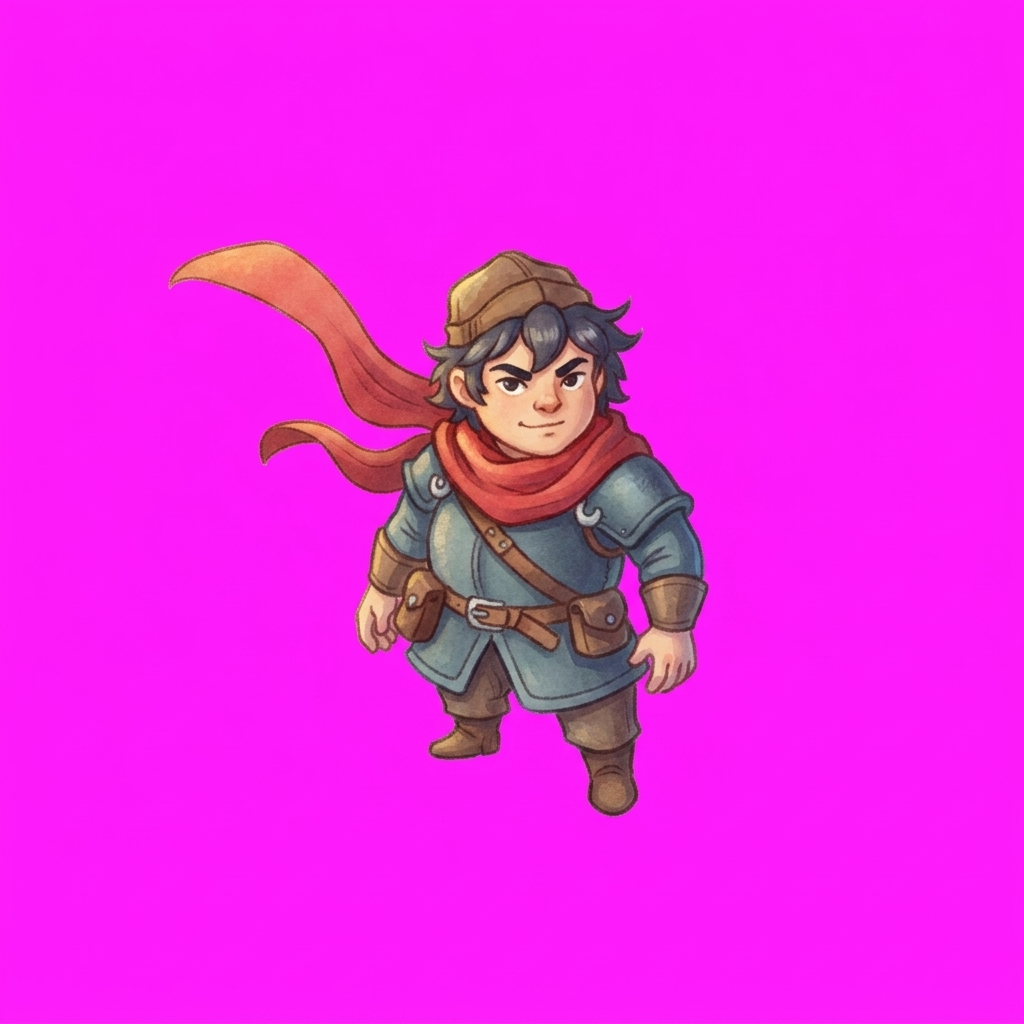
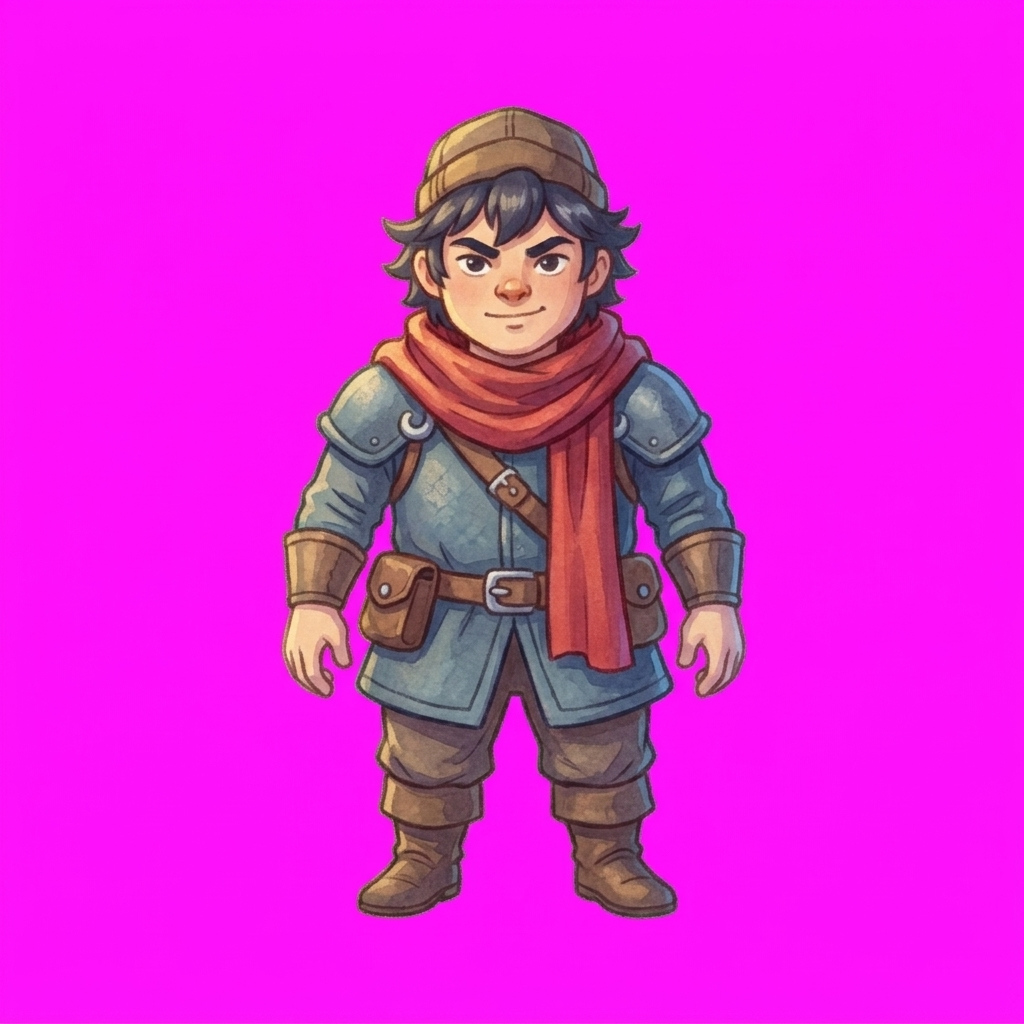
People stand the same height; Mara and Ilya in a neutral front pose
Every person (players, NPCs, wished looks) is scaled to CHARACTER_HEIGHT
(168 px) instead of fitting a fixed width, so a wide hat or scarf widens
the picture rather than shrinking the person. Mara and Ilya are repainted
standing straight, facing the viewer with arms relaxed, as the base of
their walks.

Claude-Session: https://claude.ai/code/session_01R4ALLanxqUEA9N9eW9ppqX

Changed region(s): [[0.1562, 0.0938, 0.75, 0.9062]]

diff --git a/packages/server/src/assets/wish-art.ts b/packages/server/src/assets/wish-art.ts
@@ -1,7 +1,7 @@
 import { mkdir, readFile, writeFile } from 'node:fs/promises';
 import { resolve } from 'node:path';
 import sharp from 'sharp';
-import type { BiomeId, PicturedWish } from '@co-mmo/shared';
+import { CHARACTER_HEIGHT, type BiomeId, type PicturedWish } from '@co-mmo/shared';
 import { removeKeyBackground } from './postprocess.ts';
 import type { GeneratedImage, ImageProvider } from './provider.ts';
 import { buildPrompt, type AssetDescription, type AssetKind } from './style.ts';
@@ -138,7 +138,8 @@ export async function paintWish(
   }
   const raw = await provider.generate({ prompt: request.prompt, references });
   const { png, clean } = await removeKeyBackground(await sharp(raw.data).png().toBuffer());
-  const fitted = await fitToBox(png, request.box);
+  // People stand the same height as everyone else; things fit their box.
+  const fitted = def.kind === 'player' || def.kind === 'npc' ? await fitCharacter(png, request.box) : await fitToBox(png, request.box);
   await mkdir(artDir, { recursive: true });
   await writeFile(resolve(artDir, `${id}.png`), fitted);
   return { request: { ...request, references: sent }, image: raw, cutOut: png, plainBackground: clean, fitted, referenceImages: references.map((r) => r.data) };
@@ -158,6 +159,23 @@ export interface PaintedWish {
   fitted: Buffer;
   /** The anchors that were sent. */
   referenceImages: Buffer[];
+}
+
+/**
+ * Trims the transparent margin and scales a person so the figure is
+ * CHARACTER_HEIGHT tall, feet on the bottom row of a box as tall as `box`;
+ * a figure wider than the box widens it rather than shrinking.
+ */
+export async function fitCharacter(png: Buffer, box: { width: number; height: number }): Promise<Buffer> {
+  const trimmed = await sharp(png).trim({ threshold: 1 }).png().toBuffer({ resolveWithObject: true });
+  const scale = CHARACTER_HEIGHT / trimmed.info.height;
+  const w = Math.max(1, Math.round(trimmed.info.width * scale));
+  const width = Math.max(box.width, Math.ceil(w / 2) * 2);
+  const resized = await sharp(trimmed.data).resize(w, CHARACTER_HEIGHT, { kernel: 'lanczos3' }).png().toBuffer();
+  return sharp({ create: { width, height: box.height, channels: 4, background: { r: 0, g: 0, b: 0, alpha: 0 } } })
+    .composite([{ input: resized, left: Math.floor((width - w) / 2), top: box.height - CHARACTER_HEIGHT }])
+    .png()
+    .toBuffer();
 }
 
 /** Trims the transparent margin, scales to fit and pads with the feet on the bottom row. */

diff --git a/packages/server/src/tools/build-game-art.ts b/packages/server/src/tools/build-game-art.ts
@@ -8,6 +8,7 @@ import { resolve } from 'node:path';
 import { fileURLToPath } from 'node:url';
 import sharp from 'sharp';
 import type { ArtManifest, ArtEntry } from '@co-mmo/shared';
+import { fitCharacter } from '../assets/wish-art.ts';
 
 const root = fileURLToPath(new URL('../../../../', import.meta.url));
 const anchorDir = resolve(root, 'assets/anchors');
@@ -49,6 +50,14 @@ for (const file of (await readdir(anchorDir)).filter((f) => f.endsWith('.json'))
   }
 
   const box = SET_PIECE_BOX[id] ?? (kind === 'prop' && id.endsWith('-rock') ? ROCK_BOX : BOX[kind]) ?? BOX.item!;
+  // People all stand the same height, as they do when they walk.
+  if (kind === 'player' || kind === 'npc') {
+    const fitted = await fitCharacter(png, box);
+    await writeFile(resolve(outDir, `${id}.png`), fitted);
+    const { width } = await sharp(fitted).metadata();
+    manifest[id] = entry(id, kind, width!, box.height);
+    continue;
+  }
   // Trim the transparent margin so every sprite is scaled by its own size.
   const trimmed = await sharp(png).trim({ threshold: 1 }).png().toBuffer({ resolveWithObject: true });
   const scale = Math.min(box.width / trimmed.info.width, box.height / trimmed.info.height);

diff --git a/packages/server/src/assets/walk-frames.ts b/packages/server/src/assets/walk-frames.ts
@@ -1,4 +1,5 @@
 import sharp from 'sharp';
+import { CHARACTER_HEIGHT } from '@co-mmo/shared';
 
 // Cuts painted walk pictures into frames and lines the frames up. Pictures
 // arrive with the key colour already removed (removeKeyBackground). Figures
@@ -254,7 +255,7 @@ export interface NormalizedWalk {
  * one baseline `margin` pixels above the bottom. Frames are as wide and tall
  * as the widest and tallest figure needs, so nothing is cut off.
  */
-export async function normalizeWalk(directions: Buffer[][], { bodyHeight = 168, margin = 2 } = {}): Promise<NormalizedWalk> {
+export async function normalizeWalk(directions: Buffer[][], { bodyHeight = CHARACTER_HEIGHT, margin = 2 } = {}): Promise<NormalizedWalk> {
   const frames = await Promise.all(directions.map((frames) => Promise.all(frames.map(async (png) => {
     const meta = await sharp(png).metadata();
     return { png, width: meta.width!, height: meta.height!, feet: await feetCentre(png) };

diff --git a/packages/shared/src/walk.ts b/packages/shared/src/walk.ts
@@ -5,6 +5,13 @@ import { WALK_VIEWS, type WalkView } from './walk-rig.ts';
 // the server keeps one cycle's frames as a strip and the client plays it at a
 // rate matched to how fast the walker moves, so feet keep pace with the ground.
 
+/**
+ * How tall a person's or player's figure is drawn, hat and hair included,
+ * standing or walking, so everyone stands the same size whatever sticks out
+ * sideways (a wide hat, a flying scarf): pictures grow wider instead.
+ */
+export const CHARACTER_HEIGHT = 168;
+
 /** Frames kept from one walk cycle when a body type does not say. */
 export const WALK_FRAMES = 12;
 
